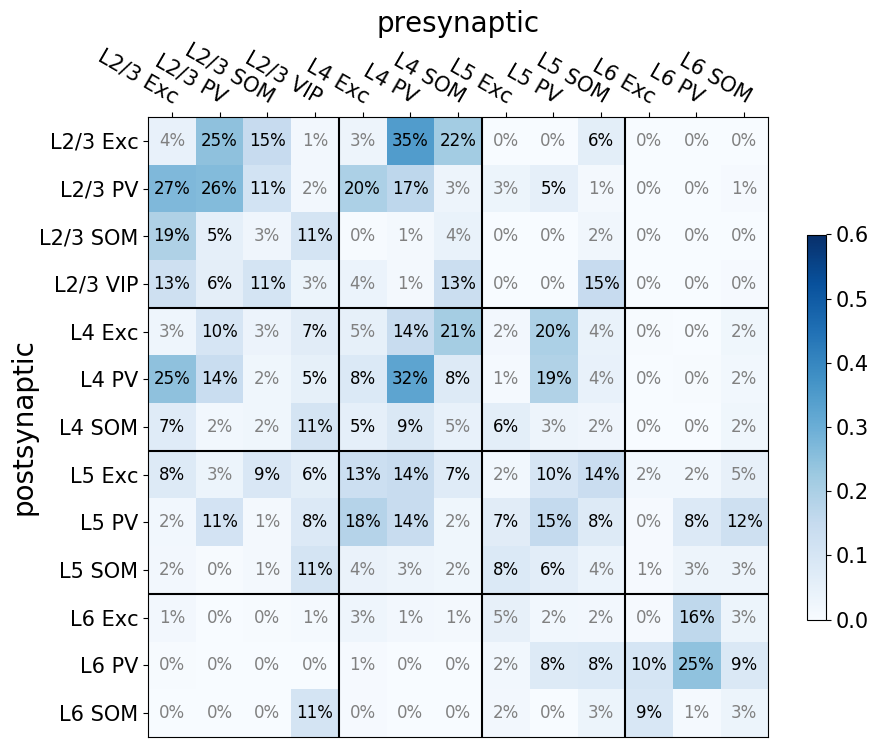
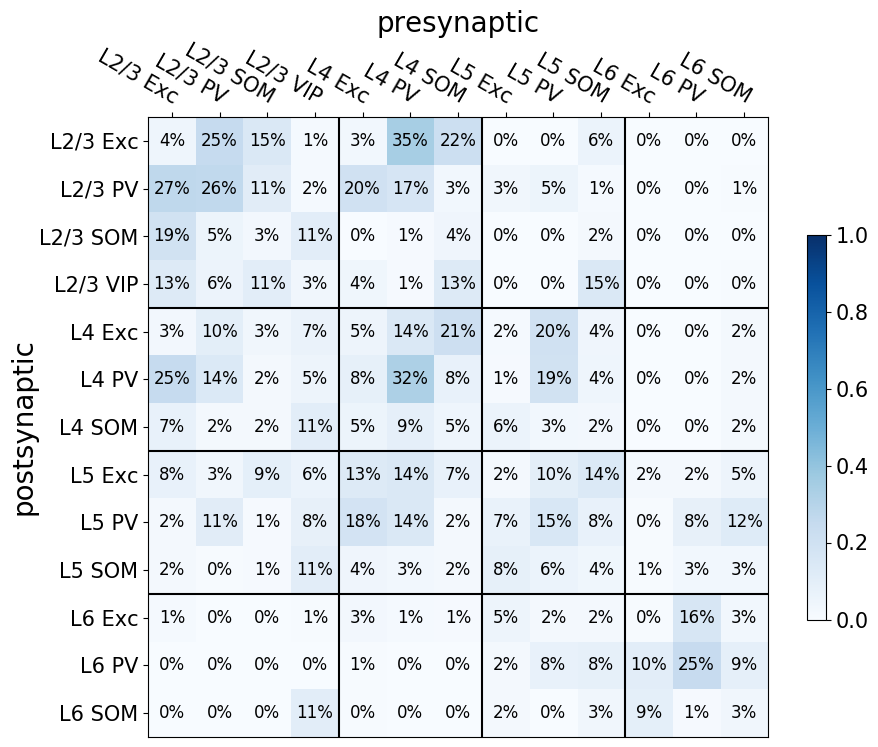
improve plotconn.py

diff --git a/scans/scan_data.py b/scans/scan_data.py
@@ -227,7 +227,9 @@ class ScanData:
         # set plotting variables
         fig, axs = plt.subplots(4, len(self.plotvars), figsize=self.figsize, sharex=True, sharey=True)
         xs, ys = np.array(self.x_lvls), np.array(self.y_lvls)
-        extent = [xs[0], xs[-1], ys[0], ys[-1]]
+        extent1 = [xs[0], xs[-1], ys[0], ys[-1]]
+        extent2 = [xs[0]-(xs[1]-xs[0])/2, xs[-1]+(xs[1]-xs[0])/2,
+                   ys[0]-(ys[1]-ys[0])/2, ys[-1]+(ys[1]-ys[0])/2]
         plt.xlim((xs[0], xs[-1]))
         plt.ylim((ys[0], ys[-1]))
         plt.setp(axs, xticks=xs[::2], yticks=ys[::2])
@@ -250,7 +252,7 @@ class ScanData:
                 # simple grid (for colorbar)
                 im = ax.imshow(data, interpolation='none',
                     cmap=self.cmaps[plotvar],
-                    origin='lower', extent=extent,
+                    origin='lower', extent=extent1,
                     vmin=vmin, vmax=vmax, zorder=1)
 
                 # patch to cover grid (shitty)
@@ -261,13 +263,13 @@ class ScanData:
                 cf = ax.contourf(data,
                     levels=np.linspace(np.nanmin(data), np.nanmax(data), 11),
                     cmap=self.cmaps[plotvar],
-                    origin='lower', extent=extent,
+                    origin='lower', extent=extent1,
                     vmin=vmin, vmax=vmax, zorder=3,
                     extend='max')
                 cf.cmap.set_over('darkblue')
                 # ct = ax.contour(data,
                 #     levels=np.linspace(np.nanmin(data), np.nanmax(data), 11),
-                #     origin='lower', extent=extent,
+                #     origin='lower', extent=extent1,
                 #     colors='gray', linewidths=0.5,
                 #     vmin=vmin, vmax=vmax, zorder=4)
                 # if self.mark_flg:
@@ -276,6 +278,19 @@ class ScanData:
 
                 # single- & triple-fit patches
                 if plotvar in self.criteria:
+                    # # fit: interpolated
+                    # cri = self.criteria[plotvar][r]
+                    # fits_intrp, trifits_intrp = np.zeros(data.shape), np.ones(data.shape)
+                    # fits_intrp[(cri[0]<=data)&(data<=cri[1])] = 1
+                    # # triple
+                    # for k in self.criteria.keys():
+                    #     cri_tri = self.criteria[k][r]
+                    #     tmp = self.interpol(self.mtxs[str(zb)][str(za)][k][r].T)
+                    #     tmp[(cri_tri[0]<=tmp)&(tmp<=cri_tri[1])] = 1
+                    #     tmp[(cri_tri[0]>tmp)|(tmp>cri_tri[1])] = 0
+                    #     tmp[np.isnan(tmp)] = 0
+                    #     trifits_intrp = np.multiply(trifits_intrp, tmp)
+                    # fit: not interpolated
                     # single fit
                     fits = self.fits[str(zb)][str(za)][plotvar][r].T
                     # triple-fit
@@ -288,16 +303,12 @@ class ScanData:
                                 all_fit = np.multiply(all_fit, self.fits[str(zb)][str(za)][k][row].T)
                     # matrix for single and triple-fit
                     fit_mtx = np.zeros(fits.shape)
-                    fit_mtx[np.where(fits == 1)] = 10.0 # single
+                    fit_mtx[np.where(fits==1)] = 10.0 # single
                     fit_mtx[np.where(tri_fits==1)] = 20.0 # triple
-                    # validate
-                    # print('{}, layer {}, criteria = {}'.format(plotvar, self.lyrs[r], self.criteria[plotvar][r]))
-                    # print('data:\n{}\n{}'.format(data[::-1], fit_mtx[::-1]))
-                    # plot
                     cf_fit = ax.contourf(fit_mtx,
                         levels=[9., 19., 25.],
                         origin='lower',
-                        extent=extent,
+                        extent=extent2,
                         hatches=['//', '++', ''],
                         alpha=0.0,
                         linewidth=0.25,
@@ -305,9 +316,10 @@ class ScanData:
                     cf_fit = ax.contour(fit_mtx,
                         levels=[9., 19.],
                         origin='lower',
-                        extent=extent,
+                        extent=extent2,
                         linewidth=0.25,
-                        colors='k', zorder=6)
+                        zorder=6,
+                        colors='k')
 
                 # RMSE
                 if self.mark_flg:

diff --git a/microcircuit/conn_probs/plotconn.py b/microcircuit/conn_probs/plotconn.py
@@ -2,7 +2,7 @@ import os
 import numpy as np
 import matplotlib.pyplot as plt
 
-def plotconn(fn, raw=False, threshold=False, vipconn=True, vmax=0.6):
+def plotconn(fn, raw=False, threshold=False, vipconn=True, vmax=1.0):
     # set labels
     pop_lbls = ['L2/3 Exc', 'L2/3 PV', 'L2/3 SOM', 'L2/3 VIP',
                 'L4 Exc', 'L4 PV', 'L4 SOM',
@@ -33,22 +33,27 @@ def plotconn(fn, raw=False, threshold=False, vipconn=True, vmax=0.6):
     )
 
     # values
-    mtx = conn_estimate_mtx()
+    # mtx_est = conn_estimate_mtx()
+    mtx_real = conn_real_mtx()
     for i in range(13):
         for j in range(13):
-            prob, fsize, fcolor = data[i, j], 12, 'k'
+            prob, fsize, fcolor, weight= data[i, j], 12, 'k', 'normal'
             text = '{:.0%}'.format(prob)
-            if threshold is True and prob < 0.05:
-                fcolor = 'gray'
-            if prob > 2*vmax/3:
-                fcolor = 'w'
-            if '7-15' in fn and mtx[i][j] == 1:
-                text += '*'
+            # if threshold is True and prob < 0.05:
+            #     fcolor = 'gray'
+            # if prob > 2*vmax/3:
+            #     fcolor = 'w'
+            if '7-15' in fn:
+                if mtx_real[i][j] == 1:
+                    text += '*'
+                    # weight = 'heavy'
             plt.text(j+0.5, 12-i+0.5, text,
             fontsize=fsize,
             color=fcolor,
             horizontalalignment='center',
-            verticalalignment='center')
+            verticalalignment='center',
+            weight=weight
+            )
     ax = plt.gca()
 
     # source/target labels
@@ -92,6 +97,23 @@ def conn_estimate_mtx():
            [0,0,0,0,0,0,0,0,0,0,0,1,1],
            [0,0,0,0,0,0,0,0,0,0,1,1,1],
            [0,0,0,0,0,0,0,0,0,0,1,1,1],
+           ]
+    return mtx
+
+def conn_real_mtx():
+    mtx = [ [1,0,1,1,1,0,0,1,0,0,1,0,0],
+            [1,1,1,1,0,0,0,0,0,0,0,0,0],
+            [1,1,1,1,0,0,0,0,0,0,0,0,0],
+            [1,1,1,1,0,0,0,0,0,0,0,0,0],
+            [1,0,0,0,1,1,1,1,0,0,1,0,0],
+            [0,0,0,0,0,1,1,0,0,0,0,0,0],
+            [0,0,0,0,1,1,1,0,0,0,0,0,0],
+            [1,0,0,0,1,0,0,1,0,0,1,0,0],
+            [0,0,0,0,0,0,0,0,0,0,0,0,0],
+            [0,0,0,0,0,0,0,0,0,0,0,0,0],
+            [1,0,0,0,1,0,0,1,0,0,1,0,0],
+            [0,0,0,0,0,0,0,0,0,0,0,0,0],
+            [0,0,0,0,0,0,0,0,0,0,0,0,0],
            ]
     return mtx
 

diff --git a/microcircuit/create_params.py b/microcircuit/create_params.py
@@ -30,7 +30,7 @@ class ScanParams:
         self.net_dict['ipsp']['use'] = False
         self.net_dict['U-compensate'] = True
         self.special_dict['stp_dict'] = {}
-        # self.special_dict['stp_dict'] = copy.deepcopy(self.stps['stp_fitted_02.pickle'])
+        self.special_dict['stp_dict'] = copy.deepcopy(self.stps['stp_fitted_02.pickle'])
         self.set_indgs(indgs)
         # self.del_item(self.special_dict['stp_dict'], keysets=[['L6_Exc', 'L6_Exc']])
         # self.net_dict['K_ext'] = np.array([750, 1500, 500, 1250,

diff --git a/run_network.py b/run_network.py
@@ -19,12 +19,12 @@ if __name__ == "__main__":
     do_selectivity = False
 
     # set ai segments
-    n_seg_ai, start_ai, seg_ai = 5, 2000., 5000.
+    n_seg_ai, start_ai, seg_ai = 1, 2000., 2000.
     len_ai = seg_ai*n_seg_ai
     t_sim = start_ai + len_ai
 
     # set background input
-    indgs = [750,1500,0,1250]
+    indgs = [750,1500,500,1250]
 
     # set thalamic input:
     # Bruno, Simons, 2002: 1.4 spikes/20-ms deflection
